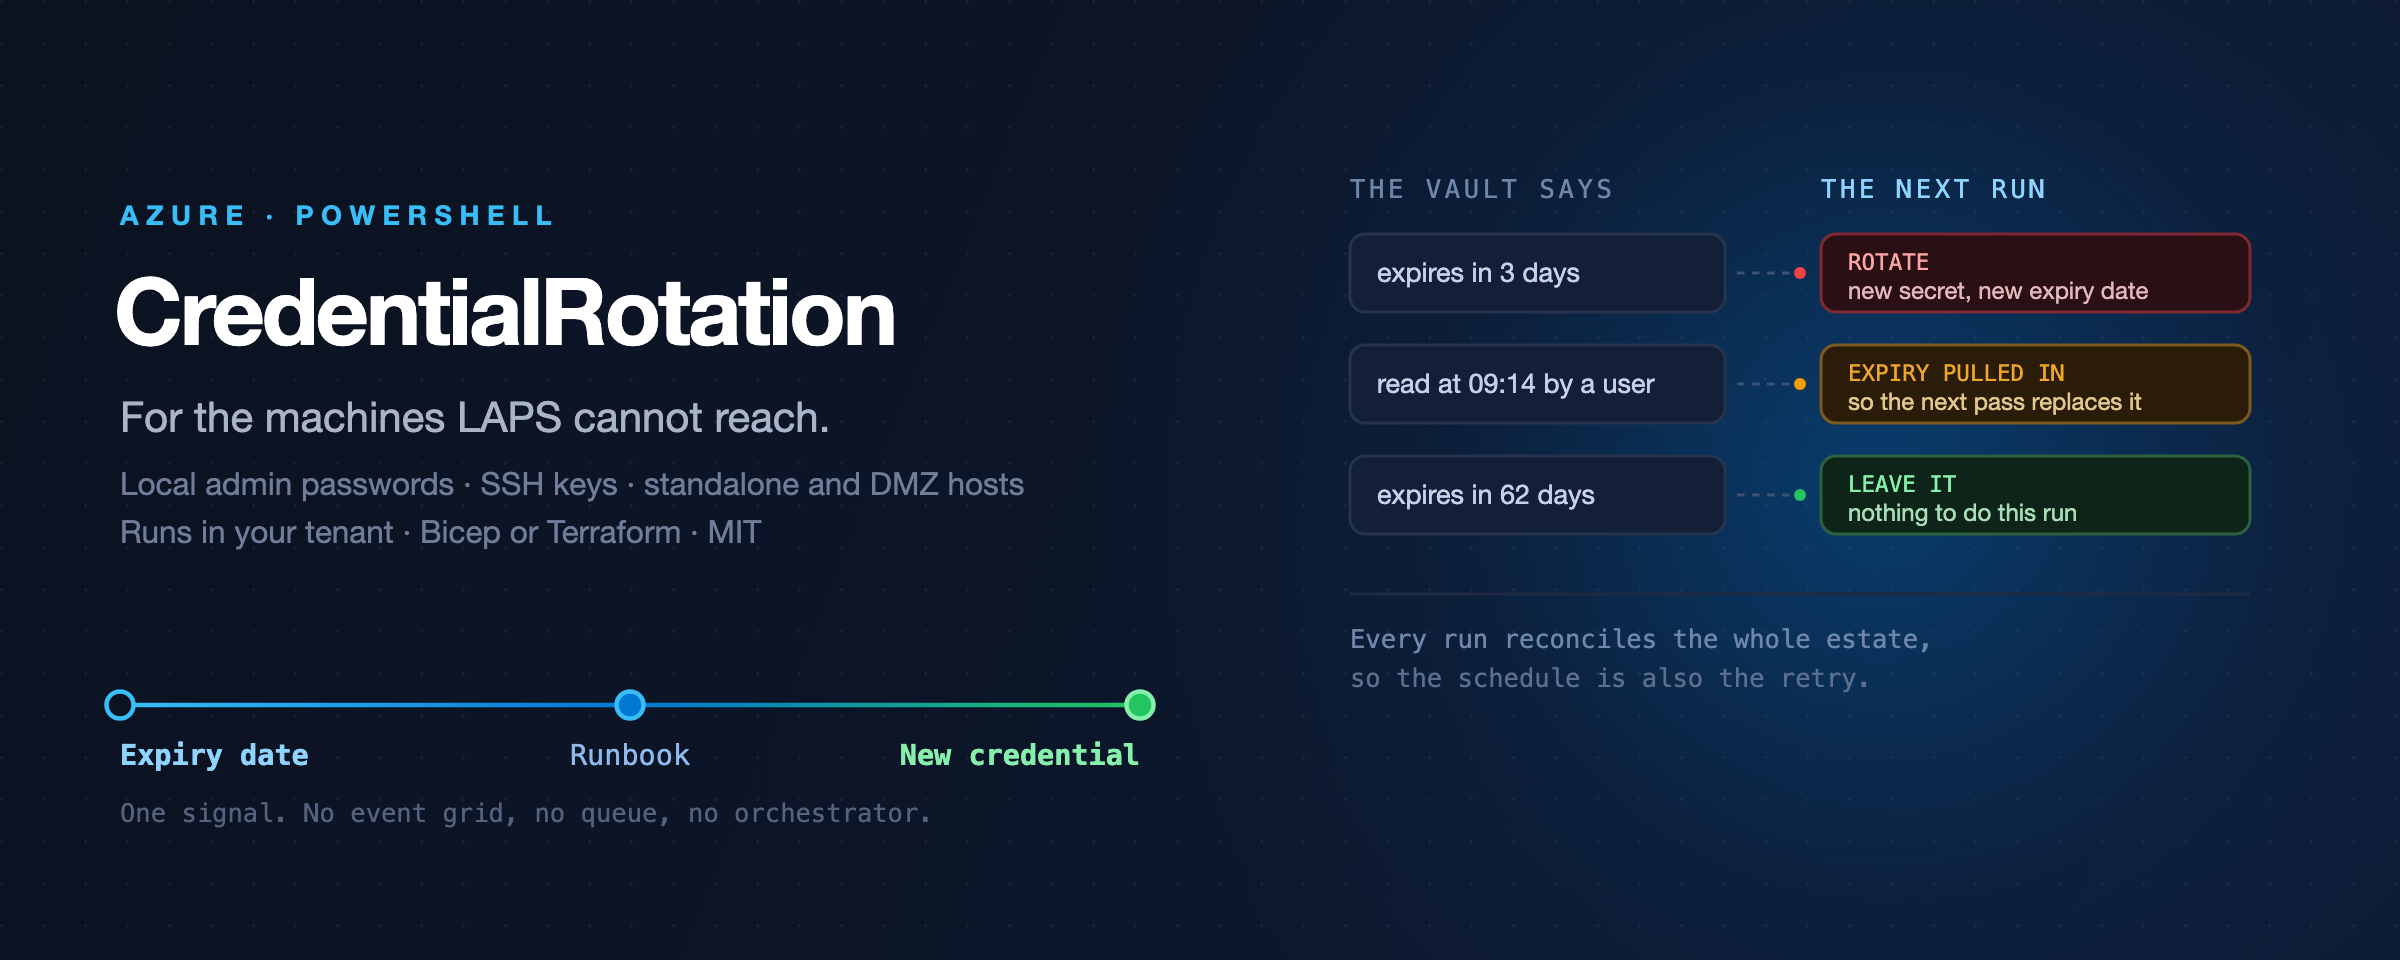
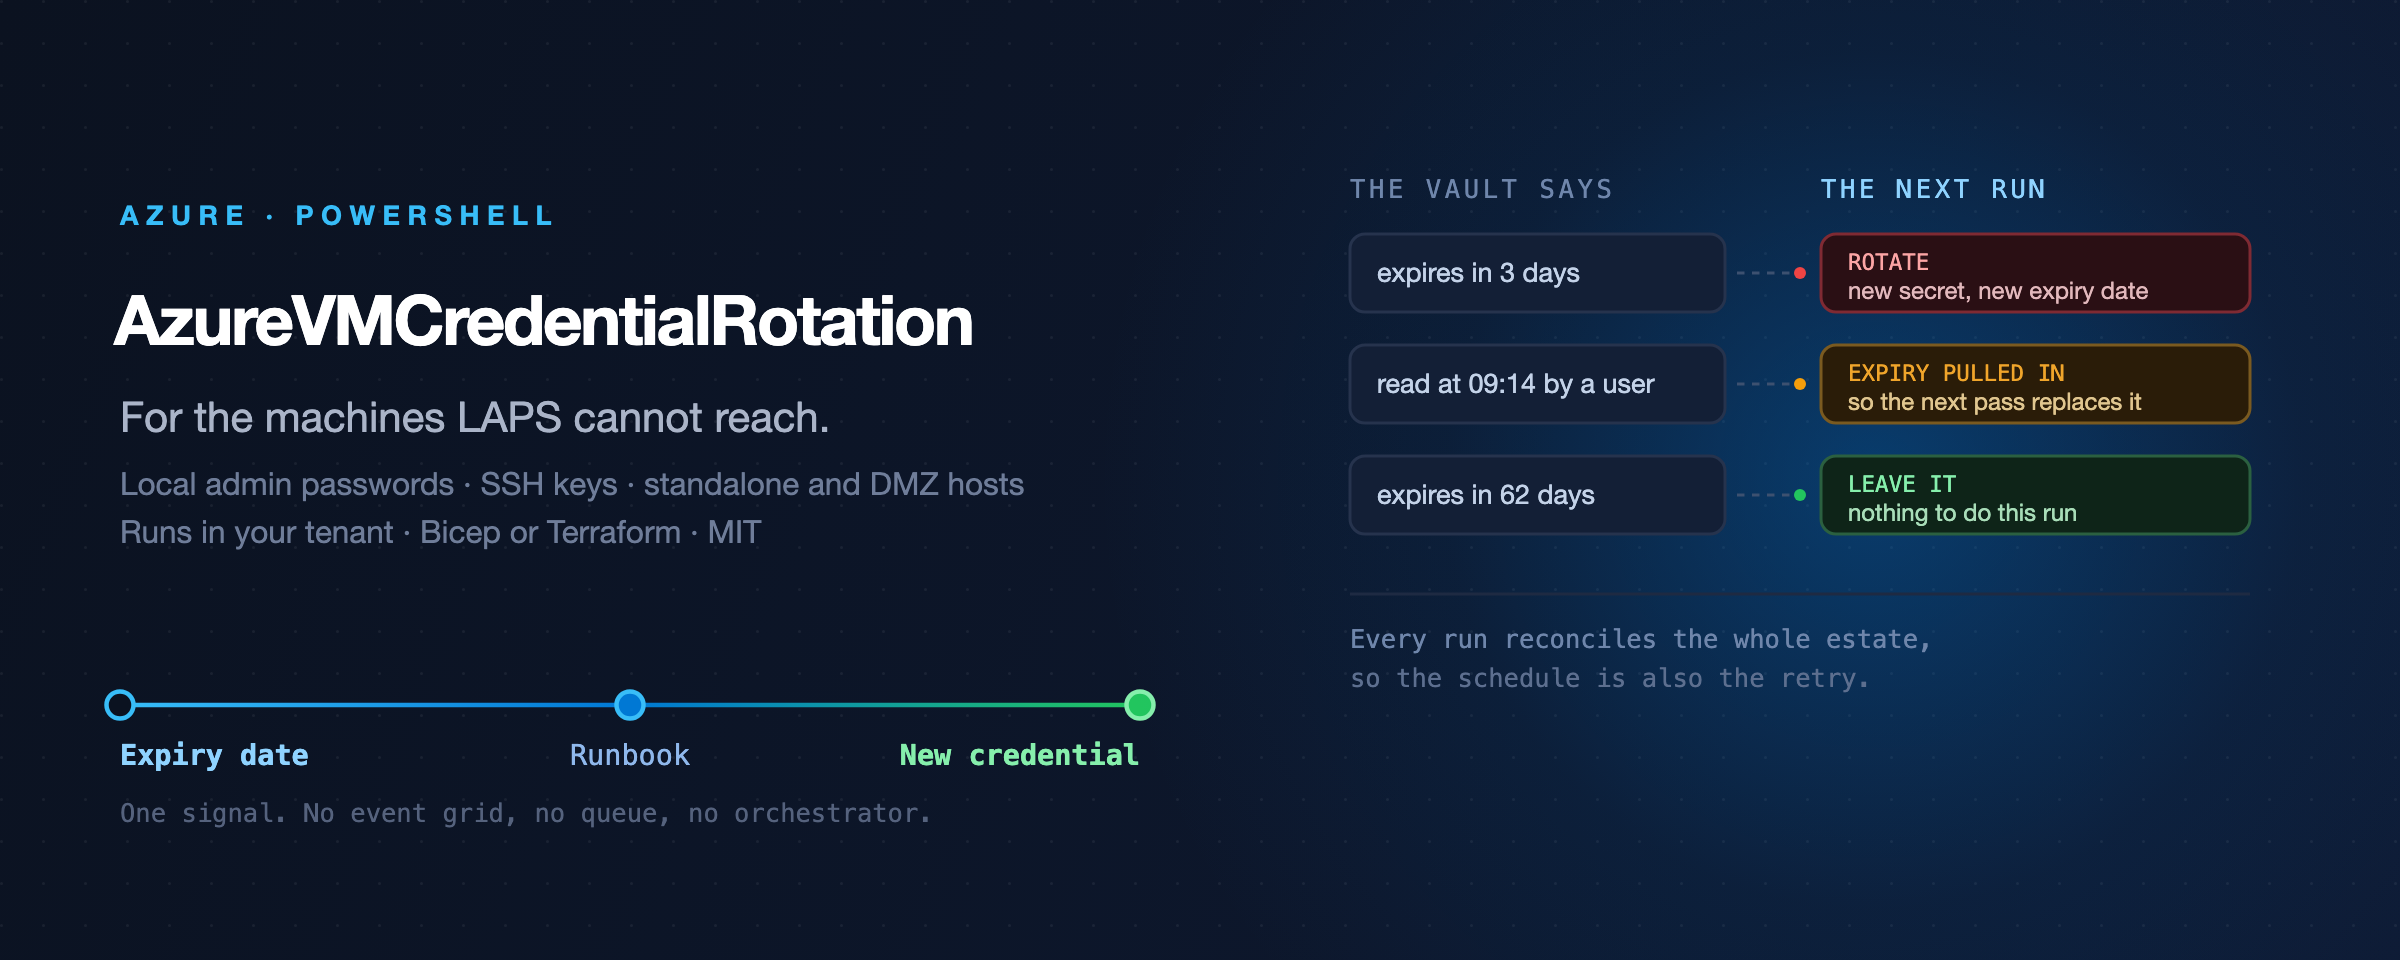
Publish as AzureVMCredentialRotation, not CredentialRotation
A Gallery name cannot be changed after the first publish, only abandoned, so it
was worth settling before the tag. "CredentialRotation" was free and is a poor
name on a public feed: someone typing Install-Module CredentialRotation has no
way to tell whether they are getting something for Azure VMs, a database or a CI
system. The new name also matches how the sibling tool is named -
azure-vm-inplace-upgrade publishes AzureInPlaceUpgrade.

Only the module identity moved. Deliberately unchanged:

  - Invoke-CredentialRotation, the exported function and the runbook it becomes.
    PowerShell does not repeat the module name in its commands, and the sibling
    module does the same thing: AzureInPlaceUpgrade exports Invoke-InPlaceUpgrade.
  - CredentialRotation_CL and Custom-CredentialRotation_CL. A table name lives in
    one workspace, so the ambiguity that motivated the module rename does not
    exist, and renaming it would orphan the rows an existing deployment already
    wrote.
  - The VM tags CredentialRotation and CredentialRotationHold, which are the
    opt-in contract with machines that are already tagged.
  - The repository, which keeps matching the pattern of its siblings.

Done with a list of literal replacements rather than a blanket substitution, and
the four protected tokens were counted before and after. The architecture diagram
also survived: the "CredentialRotation" box in it is the Log Analytics table, not
the module.
[…]

Changed region(s): [[0.0312, 0.2812, 0.4062, 0.375]]

diff --git a/docs/images/hero.source.html b/docs/images/hero.source.html
@@ -34,7 +34,7 @@
 
   <!-- left: name and promise. Keep the tagline under ~55 characters. -->
   <text x="80" y="150" fill="#38bdf8" font-size="18" font-weight="700" letter-spacing="5">AZURE  ·  POWERSHELL</text>
-  <text x="76" y="230" fill="#ffffff" font-size="62" font-weight="800" letter-spacing="-2">CredentialRotation</text>
+  <text x="76" y="230" fill="#ffffff" font-size="46" font-weight="800" letter-spacing="-1.5">AzureVMCredentialRotation</text>
   <text x="80" y="288" fill="#aab4c8" font-size="28" font-weight="400">For the machines LAPS cannot reach.</text>
   <text x="80" y="330" fill="#6f7d99" font-size="21">Local admin passwords · SSH keys · standalone and DMZ hosts</text>
   <text x="80" y="362" fill="#6f7d99" font-size="21">Runs in your tenant · Bicep or Terraform · MIT</text>

diff --git a/docs/decisions/0006-the-module-goes-to-the-gallery.md b/docs/decisions/0006-the-module-goes-to-the-gallery.md
@@ -25,11 +25,18 @@ artefact stops being free:
 
 ## Decision
 
-`CredentialRotation` is published to the PowerShell Gallery. The Bicep deployment imports it into
+`AzureVMCredentialRotation` is published to the PowerShell Gallery. The Bicep deployment imports it into
 the Automation Account by version, and publishes the thin runbook wrapper from a pinned raw URL.
 
 The wrapper imports the module only when its commands are not already defined, so the flattened
 artefact keeps working unchanged.
+
+The published name is `AzureVMCredentialRotation`, not the shorter `CredentialRotation` the source
+folder used to carry. Both were free; the short one is a poor name on a public feed, where a reader
+typing `Install-Module CredentialRotation` has no idea whether they are getting something for Azure
+VMs, for a database, or for a CI system. It also matches how the sibling tool is named
+(`azure-vm-inplace-upgrade` publishes `AzureInPlaceUpgrade`). A Gallery name cannot be changed after
+the first publish, only abandoned, so it was worth the rename beforehand.
 
 ## Why not just keep flattening
 

diff --git a/docs/decisions/0004-powershell-module-with-build-step.md b/docs/decisions/0004-powershell-module-with-build-step.md
@@ -11,7 +11,7 @@ project was written, and it made the logic effectively untestable.
 
 ## Decision
 
-The source is a proper module, one function per file, under `src/CredentialRotation`.
+The source is a proper module, one function per file, under `src/AzureVMCredentialRotation`.
 `build/Build-Runbook.ps1` concatenates it with the runbook wrapper into a single file
 in `infra/modules/core/runbook/`, which is **committed** so deployment needs no build step. CI fails if the
 artefact and the sources drift apart.
@@ -22,7 +22,7 @@ artefact and the sources drift apart.
 generation, SSH key encoding and secret-name resolution are pure and get real
 assertions rather than a hopeful manual run.
 
-**Runnable locally.** `Import-Module ./src/CredentialRotation` then
+**Runnable locally.** `Import-Module ./src/AzureVMCredentialRotation` then
 `Invoke-CredentialRotation -WhatIf` against one VM. Nobody deploys a scheduled job that
 changes administrator passwords without trying it by hand first, and making that
 possible is the difference between a tool people adopt and one they read.

diff --git a/deploy/README.md b/deploy/README.md
@@ -1,7 +1,7 @@
 # Deploy with Bicep
 
 `main.bicep` deploys the whole thing at subscription scope: a resource group, an Automation Account
-with a system-assigned identity, the `CredentialRotation` module imported from the PowerShell
+with a system-assigned identity, the `AzureVMCredentialRotation` module imported from the PowerShell
 Gallery, the runbook and its schedule, the roles the identity needs, and — unless you turn them off
 — the audit trail and rotation after use.
 
@@ -59,7 +59,7 @@ nothing reports it.
 | Automation Account | system-assigned identity, `disableLocalAuth` |
 | Runbook | `Invoke-CredentialRotation`, PowerShell 7.2 runtime |
 | Schedule | every `scheduleIntervalHours`, default 6 |
-| Module | `CredentialRotation` from the Gallery, at `moduleVersion` |
+| Module | `AzureVMCredentialRotation` from the Gallery, at `moduleVersion` |
 | Variables | 15 `CR_*` settings the runbook reads at start-up |
 | Workspace | `CredentialRotation_CL` custom table, ingestion endpoint and rule |
 | Workbook | who read which credential, when it was replaced |

diff --git a/README.md b/README.md
@@ -185,7 +185,7 @@ pwsh -c 'Invoke-ScriptAnalyzer -Path ./src -Recurse -Settings ./PSScriptAnalyzer
 terraform -chdir=infra/examples/02-full validate
 ```
 
-The logic lives in a proper PowerShell module under [`src/CredentialRotation`](src/CredentialRotation)
+The logic lives in a proper PowerShell module under [`src/AzureVMCredentialRotation`](src/AzureVMCredentialRotation)
 so it can be tested and run locally. Azure Automation executes one script per job, so
 `build/Build-Runbook.ps1` flattens it into [`infra/modules/core/runbook/`](infra/modules/core/runbook), which is committed —
 deploying needs no build step. CI fails if the two drift apart.
@@ -193,7 +193,7 @@ deploying needs no build step. CI fails if the two drift apart.
 Run it locally against a single VM before trusting a schedule:
 
 ```powershell
-Import-Module ./src/CredentialRotation
+Import-Module ./src/AzureVMCredentialRotation
 Connect-AzAccount
 Invoke-CredentialRotation -VaultName kv-creds -WhatIf
 ```

diff --git a/docs/commands/README.md b/docs/commands/README.md
@@ -1,4 +1,4 @@
-# CredentialRotation command reference
+# AzureVMCredentialRotation command reference
 
 Credential lifecycle for Azure VMs that cannot use Windows LAPS or Entra login. Rotates local admin passwords and SSH keys, driven by Key Vault expiry dates.
 
@@ -9,7 +9,7 @@ Credential lifecycle for Azure VMs that cannot use Windows LAPS or Entra login. 
 | Module version | 0.1.0 |
 | PowerShell | 7.2+ (Core) |
 | Required modules | `Az.Accounts`, `Az.Compute`, `Az.KeyVault`, `Az.OperationalInsights`, `Az.Resources` |
-| Getting it | `Install-Module CredentialRotation`, or let the deployment pull it at the pinned version |
+| Getting it | `Install-Module AzureVMCredentialRotation`, or let the deployment pull it at the pinned version |
 
 Per-command permissions are on each page under **Requirements and notes**.
 

diff --git a/CHANGELOG.md b/CHANGELOG.md
@@ -61,7 +61,7 @@ building something similar.
 
 ### Added
 
-- Rotation engine as a PowerShell module (`src/CredentialRotation`), flattened into a
+- Rotation engine as a PowerShell module (`src/AzureVMCredentialRotation`), flattened into a
   single runbook by `build/Build-Runbook.ps1`
 - Calendar-driven rotation of Windows and Linux local passwords and Linux SSH keys
 - Access-driven rotation: a human read pulls the secret's expiry date forward, and the
